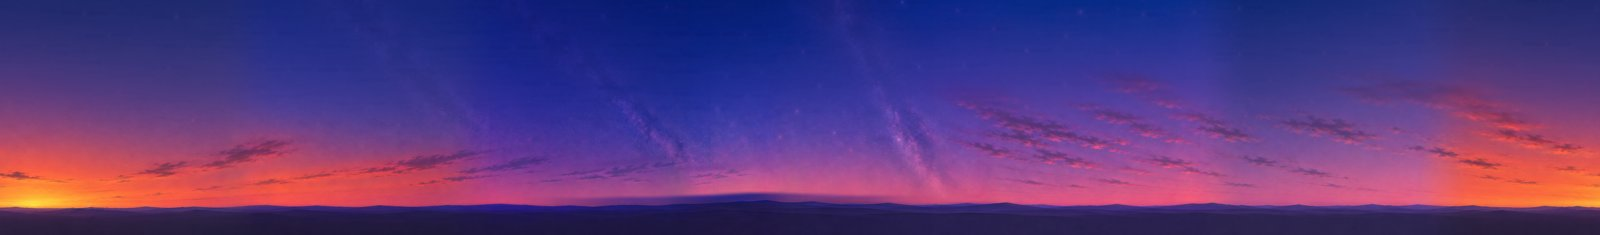
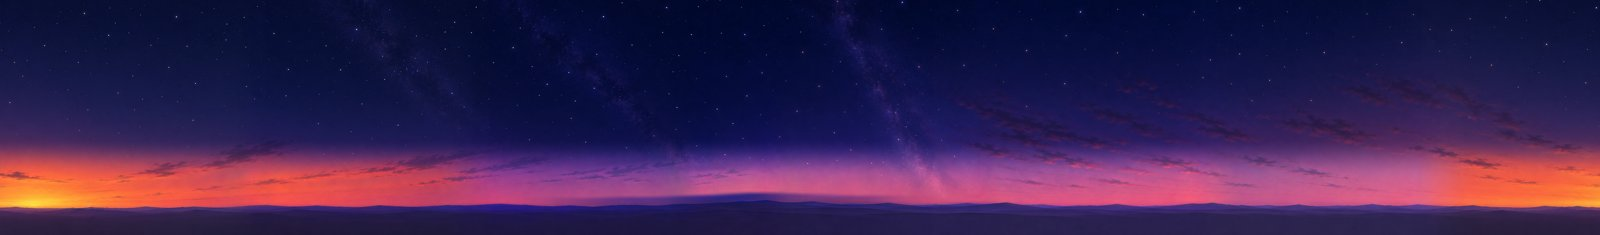
E409 Signal Dunes, round 18 follow-ups (the lead): the early sky dark at the top with its glow low; C's smoke a thin dark plume drifting left with the sparks
- The sky. A's whole upper sky came out bright magenta; the mockups keep the top a dark navy night with stars at every
  stage, the glow in the band near the horizon only.
  - The early stage's re-colour now eases out from 5 to 14 deg (A's frame top is 15-19 deg), so the top is the late
    painting's dark sky and stars.
  - The early stage is drawn at 0.64.
  - A's sky bands, mockup / game: top 40 / ~40 (was 76), the glow band near 96 / ~100 (was 134).
- The smoke and sparks drift on one global dusk breeze from the south-east, not the dune-forming wind. On that wind they
  drifted right in C's view; mockup C's plume drifts left with its sparks.
- The plume is half as wide and back to a dark grey-brown (it read as a broad pale column).

Claude-Session: https://claude.ai/code/session_012htVTtwhjVAvFBGLEQBwnq

diff --git a/src/shards/sunscar-dunes/world/fireFx.ts b/src/shards/sunscar-dunes/world/fireFx.ts
@@ -1,6 +1,12 @@
 import { AdditiveBlending, BufferGeometry, CustomBlending, LinearFilter, LinearMipmapLinearFilter, OneFactor, OneMinusSrcAlphaFactor, Float32BufferAttribute, Mesh, NormalBlending, PlaneGeometry, Points, ShaderMaterial, SRGBColorSpace, Texture, Vector4, type Group, type Object3D, type Vector3 } from 'three';
-import { WIND } from './dunes';
 import { FIRE_BOOK_URL } from '../boot/files';
+
+/**
+ * The dusk breeze the fires' smoke and sparks drift on (round 18b, the lead: mockup C's thin plume drifts LEFT with the
+ * sparks; on the dune-forming WIND it drifted right in C's view): one global direction, a light breeze from the south-east
+ * toward the north-west, not the prevailing wind that built the dunes. It drifts left in C and in the spawn views.
+ */
+const BREEZE = { x: -0.5, z: -0.866 } as const;
 
 /**
  * Fire, embers and smoke (review R5 / TOP-15 #8, style bible FX): shard-local, since no flame / ember / smoke particle
@@ -9,7 +15,7 @@ import { FIRE_BOOK_URL } from '../boot/files';
  *
  * - the flame: two crossed-free cylindrical billboards (they turn about Y to the camera), a scrolling-noise flame;
  * - the glow: a soft spherical billboard round the flame, what makes a lit waymark read at 60 m+;
- * - embers: points that rise and blow downwind (`WIND`), cooling from yellow to red;
+ * - embers: points that rise and drift on the dusk breeze (`BREEZE`), cooling from yellow to red;
  * - smoke: a tall billboard column that widens and leans downwind, lit warm at its foot;
  * - the pool: a warm additive disc draped on the sand round the brazier.
  */
@@ -53,7 +59,7 @@ void main() {
   vec3 right = normalize(vec3(toCam.z, 0.0, -toCam.x) + vec3(1e-4, 0.0, 0.0));
   float y = position.y;
   vec3 world = center + right * position.x * sx * (1.0 + LEAN_WIDEN * y) + vec3(0.0, y * sy, 0.0);
-  world.xz += vec2(${WIND.x.toFixed(3)}, ${WIND.z.toFixed(3)}) * y * y * sy * LEAN + vec2(sin(uTime * 0.7 + y * 3.0), cos(uTime * 0.5 + y * 2.0)) * y * sy * LEAN * SWAY;
+  world.xz += vec2(${BREEZE.x.toFixed(3)}, ${BREEZE.z.toFixed(3)}) * y * y * sy * LEAN + vec2(sin(uTime * 0.7 + y * 3.0), cos(uTime * 0.5 + y * 2.0)) * y * sy * LEAN * SWAY;
   vFar = length(cameraPosition - world);
   gl_Position = projectionMatrix * viewMatrix * vec4(world, 1.0);
 }`;
@@ -137,7 +143,7 @@ void main() {
   float puff = smoothstep(0.35, 0.75, n + 0.25 * (1.0 - y));
   float a = (1.0 - smoothstep(0.15, 0.9, d)) * smoothstep(0.0, 0.06, y) * (1.0 - smoothstep(0.35, 0.95, y)) * puff;
   // Dark grey-brown, lit warm by the fire at its foot and by the afterglow on its lit side.
-  vec3 c = ${wisp ? 'mix(vec3(0.16, 0.11, 0.1), vec3(0.09, 0.08, 0.12), smoothstep(0.0, 0.5, y))' : 'mix(vec3(0.42, 0.2, 0.08), vec3(0.13, 0.1, 0.1), smoothstep(0.02, 0.3, y))'}; // round 8 (mockup C: a grey-brown billow lit orange at its foot, not a dark ghost); round 18 (row 3: near-black, it vanished against the late sky; mockup C's billow reads grey-brown): lifted; round 9: linear values (0.1 displayed as a pale grey column) // a dark plume faintly lit at its foot, or a pale wisp // dark brown-grey, darker than the sky, warm at its foot
+  vec3 c = ${wisp ? 'mix(vec3(0.16, 0.11, 0.1), vec3(0.09, 0.08, 0.12), smoothstep(0.0, 0.5, y))' : 'mix(vec3(0.24, 0.12, 0.06), vec3(0.075, 0.06, 0.058), smoothstep(0.02, 0.3, y))'}; // round 8 (mockup C: a grey-brown billow lit orange at its foot, not a dark ghost); round 18 (row 3: near-black, it vanished against the late sky; mockup C's billow reads grey-brown): lifted; round 18b (the lead: too pale, a column up the sky): back toward a dark grey-brown; round 9: linear values (0.1 displayed as a pale grey column) // a dark plume faintly lit at its foot, or a pale wisp // dark brown-grey, darker than the sky, warm at its foot
   gl_FragColor = vec4(c, a * ${wisp ? '0.55' : '0.9'} * (1.0 - smoothstep(260.0, 420.0, vFar)) * vNear);
 }`,
 });
@@ -185,12 +191,12 @@ void main() {
   vLife = life;
   float a = seed * 40.0 + uTime * (1.0 + fract(seed * 3.7));
   vec3 p = vec3(cos(a) * 0.22 * (1.0 + life * 3.0), life * 6.5, sin(a) * 0.22 * (1.0 + life * 3.0)) * s;
-  p.xz += vec2(${WIND.x.toFixed(3)}, ${WIND.z.toFixed(3)}) * life * (0.6 + life) * 4.5 * s;
+  p.xz += vec2(${BREEZE.x.toFixed(3)}, ${BREEZE.z.toFixed(3)}) * life * (0.6 + life) * 4.5 * s;
   vec4 mv = viewMatrix * vec4((modelMatrix * vec4(0.0, 0.0, 0.0, 1.0)).xyz + p, 1.0);
   // round 9 (seat C: the dashes leaned at one fixed screen angle): each dash along its own projected motion
   float life2 = life + 0.02, a2 = seed * 40.0 + (uTime + 0.02) * (1.0 + fract(seed * 3.7));
   vec3 p2 = vec3(cos(a2) * 0.22 * (1.0 + life2 * 3.0), life2 * 6.5, sin(a2) * 0.22 * (1.0 + life2 * 3.0)) * s;
-  p2.xz += vec2(${WIND.x.toFixed(3)}, ${WIND.z.toFixed(3)}) * life2 * (0.6 + life2) * 4.5 * s;
+  p2.xz += vec2(${BREEZE.x.toFixed(3)}, ${BREEZE.z.toFixed(3)}) * life2 * (0.6 + life2) * 4.5 * s;
   vec4 c1 = projectionMatrix * mv, c2 = projectionMatrix * viewMatrix * vec4((modelMatrix * vec4(0.0, 0.0, 0.0, 1.0)).xyz + p2, 1.0);
   vec2 sd = c2.xy / c2.w - c1.xy / c1.w;
   vDir = normalize(vec2(sd.x, -sd.y) + vec2(1e-5, 0.0));
@@ -257,7 +263,7 @@ export function addFire(group: Group, size: FireSize, pool?: { at: Vector3; grou
   for (const k of [-1, 1]) { const side = new Mesh(quad, flameMaterial); side.scale.set(size.flame * 0.26, size.flame * (k > 0 ? 0.72 : 0.62), 1); side.position.set(k * size.flame * 0.11, -0.08, k * 0.07); add(side); }
   const glow = new Mesh(glowQuad, glowMaterial); glow.scale.setScalar(size.glow); glow.position.y = size.flame * 0.4; glow.renderOrder = 2; add(glow);
   const sparks = new Points(embers(size.embers), emberMaterial); sparks.scale.setScalar(size.flame * 0.9); sparks.position.y = size.flame * 0.3; add(sparks);
-  const smoke = size.wisp === true ? new Mesh(wispQuad, wispMaterial) : new Mesh(quad, smokeMaterial); smoke.scale.set(size.smoke * (size.wisp === true ? 0.03 : 0.26), size.smoke, 1); smoke.position.y = size.flame * 0.7; smoke.renderOrder = 1; add(smoke);
+  const smoke = size.wisp === true ? new Mesh(wispQuad, wispMaterial) : new Mesh(quad, smokeMaterial); smoke.scale.set(size.smoke * (size.wisp === true ? 0.03 : 0.13), size.smoke, 1); // round 18b (the lead: a broad pale column; mockup C's plume is thin): half as wide smoke.position.y = size.flame * 0.7; smoke.renderOrder = 1; add(smoke);
   if (pool) {
     const r = Math.max(size.glow * 2.3, size.flame * 2.4), n = 16, g = new PlaneGeometry(r * 2, r * 2, n, n); g.rotateX(-Math.PI / 2);
     const p = g.getAttribute('position');

diff --git a/src/shards/sunscar-dunes/look/painted.ts b/src/shards/sunscar-dunes/look/painted.ts
@@ -53,7 +53,9 @@ void main() {
   float v = clamp((elev - ${PAINTED.elevBottom.toFixed(1)}) / ${(PAINTED.elevTop - PAINTED.elevBottom).toFixed(1)}, 0.002, 0.998);
   vec2 uv = vec2(heading, v);
   // the stages by the dusk: early up to its own dusk, late past its own
-  vec3 c = mix(strip(uEarly, uv), strip(uLate, uv), smoothstep(${PAINTED.dusk[0].toFixed(2)}, ${PAINTED.dusk[1].toFixed(2)}, uDusk));
+  // round 18b (the lead: A's sky 1.4-1.9x the mockup's, 134 against 97 at the band, 76 against 40 at the top): the early
+  // stage at 0.64
+  vec3 c = mix(strip(uEarly, uv) * 0.64, strip(uLate, uv), smoothstep(${PAINTED.dusk[0].toFixed(2)}, ${PAINTED.dusk[1].toFixed(2)}, uDusk));
   // above the strip its top row carries on to the zenith, a little darker
   c *= 1.0 - 0.3 * smoothstep(${PAINTED.elevTop.toFixed(1)}, 90.0, elev);
   // crisp stars where the painted sky is dark (the mockups' stars are sharp white points; the strip is magnified ~3x)

diff --git a/art/sunscar-dunes/round-25-sky/early_fix.py b/art/sunscar-dunes/round-25-sky/early_fix.py
@@ -3,11 +3,13 @@
 early2's seven slices were edited one by one (edit_stage.py) and each drifted in colour, so its stitch shows vertical
 seams. The detail is the late painting's anyway (the edits kept its clouds), so the early stage is the late strip times
 early2's colour change, both blurred hard across (80 px) and lightly up (6 px): the seams become gradients, the late
-painting's clouds and horizon stay sharp. Writes early/panorama.png for prep.py (the first early panorama, too tall a
-glow, is replaced)."""
+painting's clouds and horizon stay sharp. Round 18b (the lead: A's whole upper sky came out bright magenta; the mockups
+keep the top a dark navy night with stars at every stage, the glow only in the band near the horizon): the re-colour
+applies only low, easing out from 5 to 14 deg (A's frame top is ~15-19 deg), so the top stays the late painting's dark sky and stars. Writes
+early/panorama.png for prep.py."""
 import os
 import numpy as np
-from PIL import Image, ImageFilter
+from PIL import Image
 
 HERE = os.path.dirname(os.path.abspath(__file__))
 late = Image.open(os.path.join(HERE, 'late', 'panorama.png')).convert('RGB')
@@ -26,16 +28,12 @@ def blur(im):
 
 
 L = np.asarray(late).astype(np.float64)
-# just after sunset there are no stars and no milky way yet: star points go (a median test), and above ~14 deg the late
-# painting's detail is mostly blended into its own smooth gradient (the clouds sit lower)
-med = np.asarray(late.filter(ImageFilter.MedianFilter(7))).astype(np.float64)
-L = np.where((L.sum(2, keepdims=True) - med.sum(2, keepdims=True)) > 45, med, L)
+ratio = (blur(e2) + 4.0) / (blur(late) + 4.0)
 H, HOR, PPD = L.shape[0], int(1024 * 0.88), 1536 / 100.0
 elev = (HOR - np.arange(H)) / PPD
-w = np.clip((elev - 14.0) / 10.0, 0, 1)[:, None, None] * 0.8
-L = L * (1 - w) + blur(Image.fromarray(np.clip(L, 0, 255).astype(np.uint8))) * w
-ratio = (blur(e2) + 4.0) / (blur(late) + 4.0)
-out = np.clip(L * ratio, 0, 255).astype(np.uint8)
+t = np.clip((elev - 5.0) / 9.0, 0, 1)
+low = (1.0 - t * t * (3 - 2 * t))[:, None, None]
+out = np.clip(L * (1.0 + (ratio - 1.0) * low), 0, 255).astype(np.uint8)
 os.makedirs(os.path.join(HERE, 'early'), exist_ok=True)
 Image.fromarray(out).save(os.path.join(HERE, 'early', 'panorama.png'))
 Image.fromarray(out).resize((2400, 444)).save(os.path.join(HERE, 'preview-early.jpg'), quality=85)
